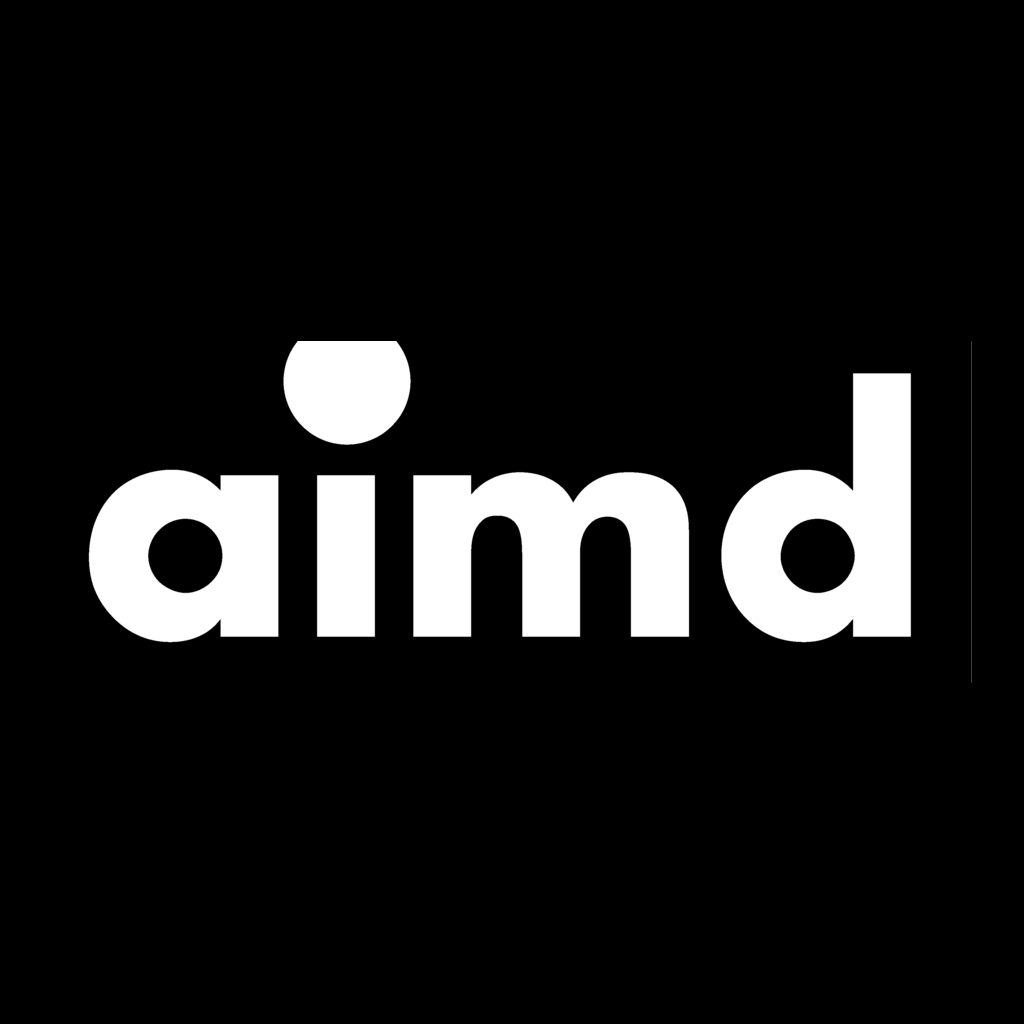
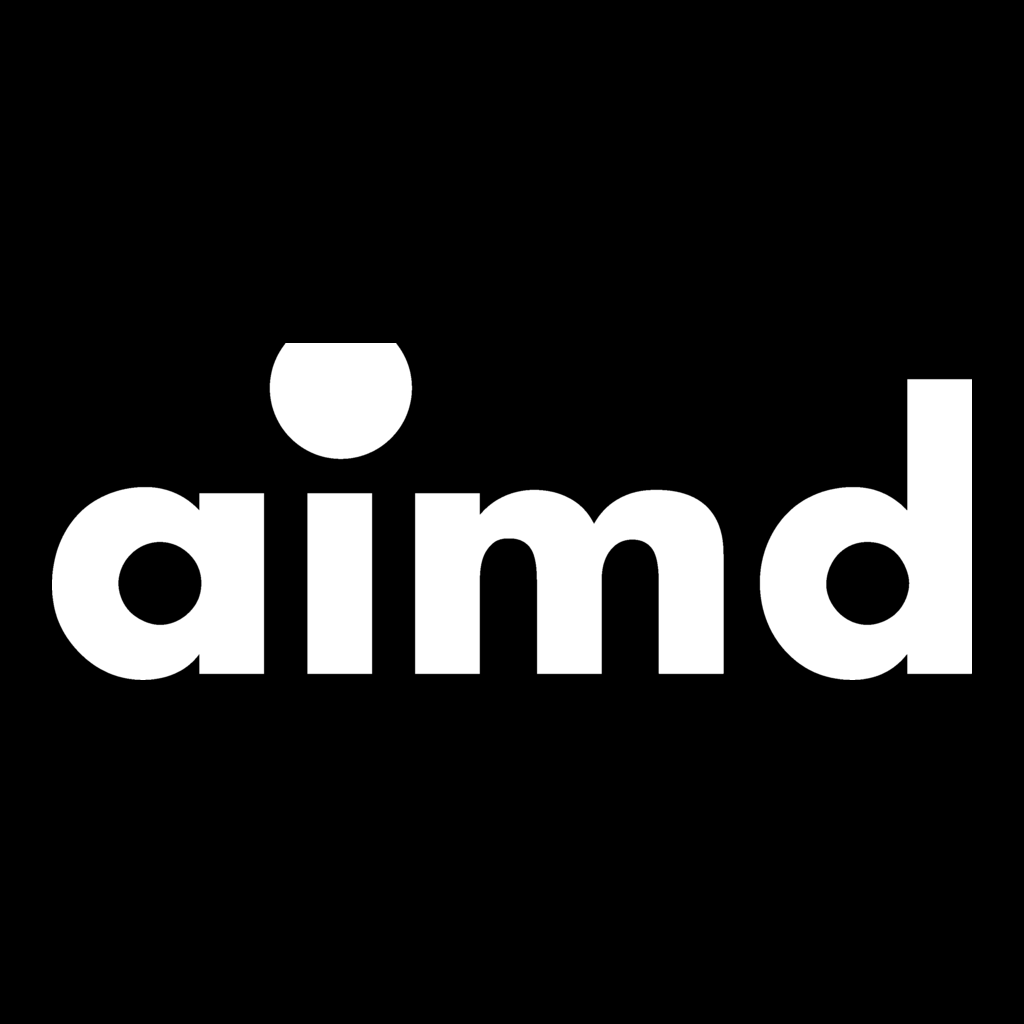
Update agent assets and documentation for aimd-network visual branding
Replit-Commit-Author: Agent

Changed region(s): [[0.4062, 0.3438, 0.9688, 0.6875], [0.0312, 0.3438, 0.4062, 0.6875]]

diff --git a/.agents/memory/logo-image-preparation.md b/.agents/memory/logo-image-preparation.md
@@ -1,0 +1,10 @@
+---
+name: Logo image preparation
+description: Avoid subtle panel borders when adapting supplied raster logos for app icons.
+---
+
+When adapting a supplied raster logo, preserve its actual letter shapes but isolate the mark from the image's background panel before placing it on a new icon canvas. Automatic trimming is not proof that all outer-border pixels are gone.
+
+**Why:** The supplied AIMD JPEG had a near-black panel and a faint bright edge. Both survived initial automatic trimming and became visible as a rectangular seam or stray line in the icon.
+
+**How to apply:** Inspect the isolated mark and the final composite at full and small sizes. Check opaque output for iOS and appropriate mask-safe spacing for Android; avoid AI redrawing of an existing brand mark.

diff --git a/.agents/memory/MEMORY.md b/.agents/memory/MEMORY.md
@@ -30,3 +30,4 @@
 - [Workshop video access](workshop-video-access.md) — free public teasers; full lessons require active $39 membership or staff-granted workshop participation.
 - [Browser testing limits](browser-testing-limits.md) — test Chromium may lack H.264; use WebM fixtures and standard-domain Clerk test emails.
 - [Overview pitch positioning](overview-pitch-positioning.md) — broad school/creator/partner pitch centers product and mission; speculative business numbers belong in the business plan.
+- [Logo image preparation](logo-image-preparation.md) — raster logo backgrounds and faint edge pixels can survive automatic trimming; inspect the isolated mark before icon compositing.
